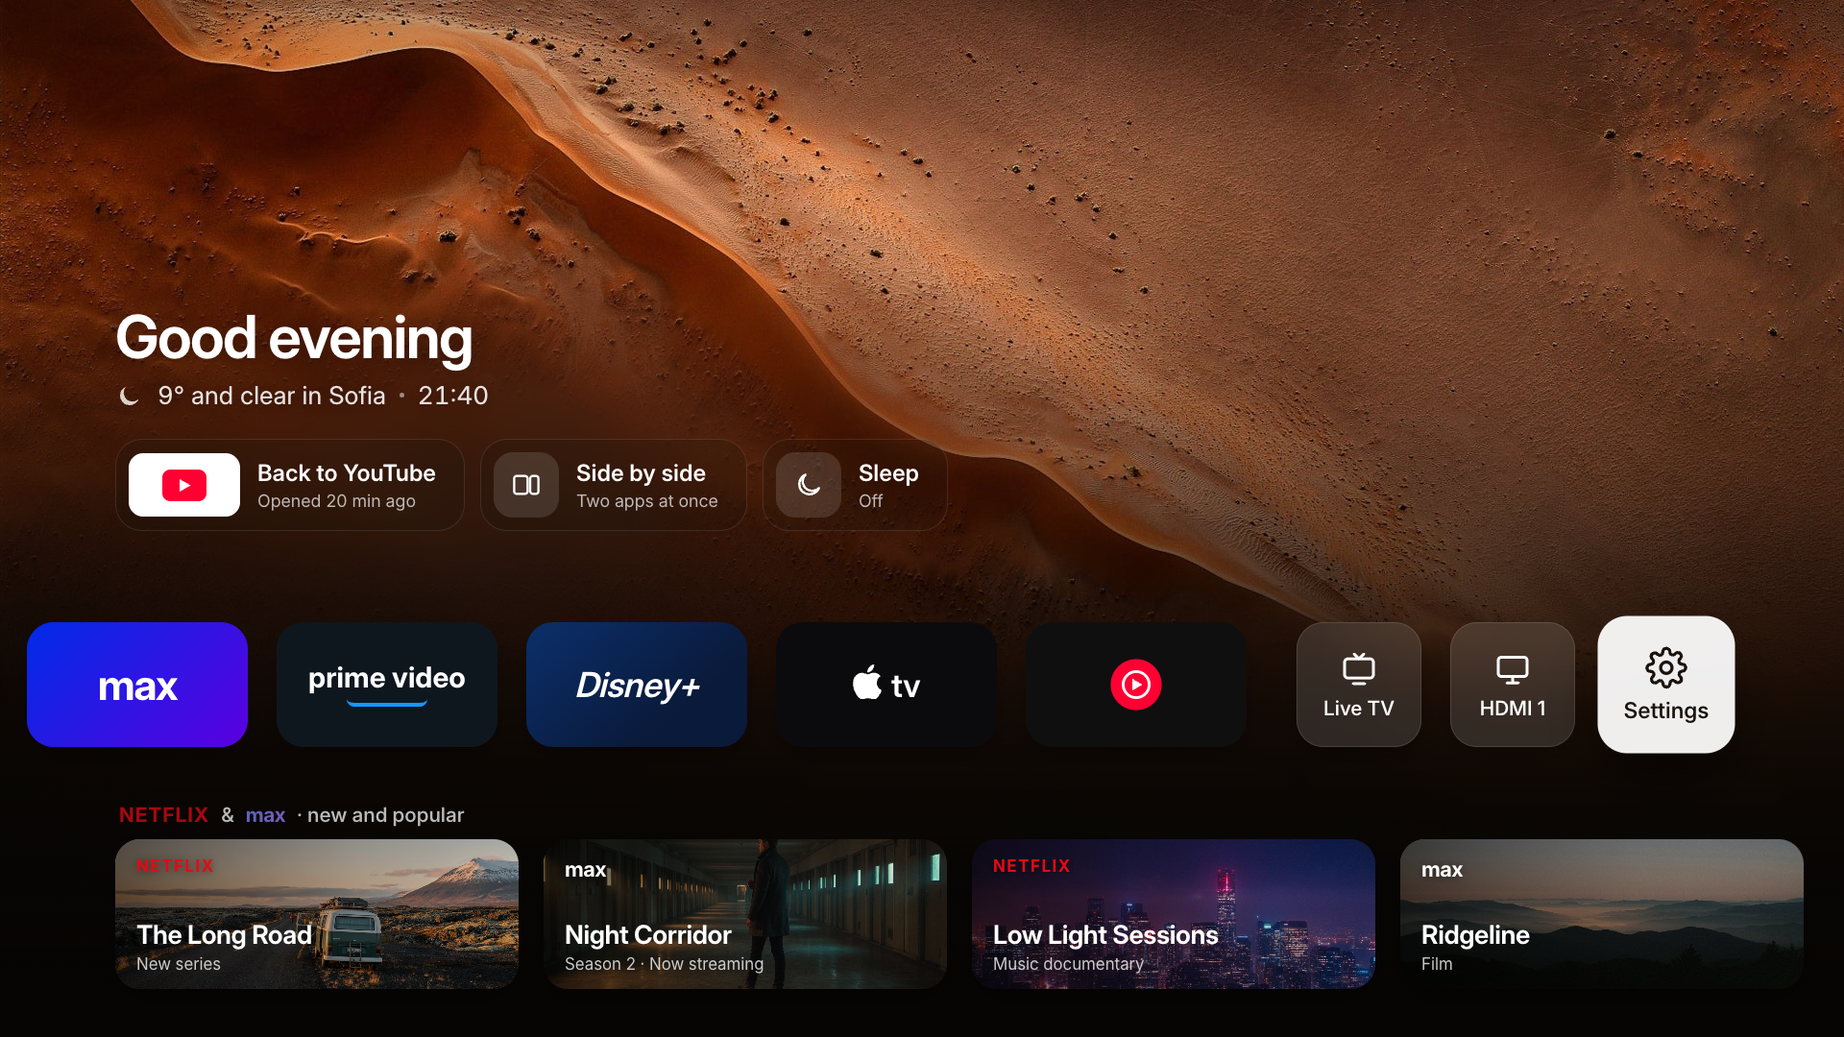
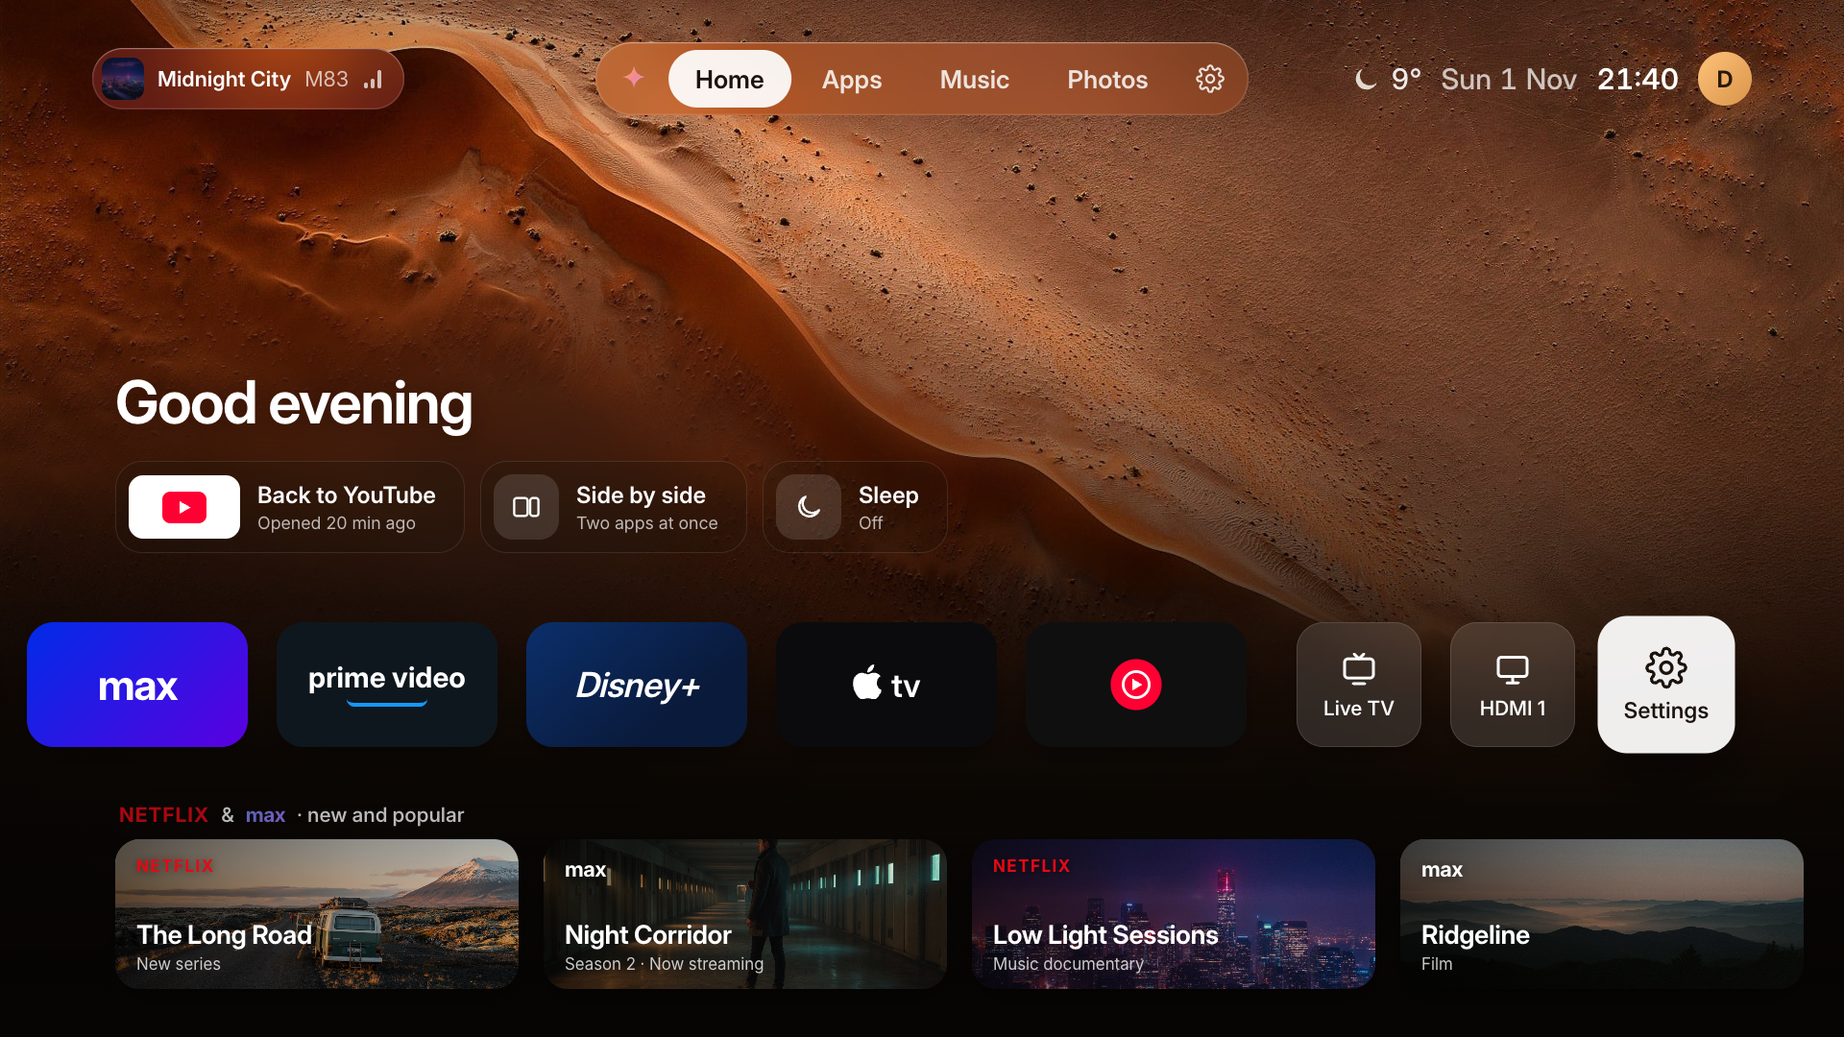
v5: bring back the v4 top bar; taller, clearer glass clock

diff --git a/docs/design/mockup-v5.html b/docs/design/mockup-v5.html
@@ -22,8 +22,31 @@ svg.s{fill:none;stroke:currentColor;stroke-width:1.8;stroke-linecap:round;stroke
 .frost{position:absolute;left:-60px;top:250px;width:1400px;height:420px;pointer-events:none;backdrop-filter:blur(26px) saturate(112%) brightness(.85);-webkit-backdrop-filter:blur(26px) saturate(112%) brightness(.85);mask-image:radial-gradient(52% 60% at 36% 58%,#000 30%,transparent 100%);-webkit-mask-image:radial-gradient(52% 60% at 36% 58%,#000 30%,transparent 100%)}
 .band{position:absolute;left:0;top:600px;width:1920px;height:480px;pointer-events:none;backdrop-filter:blur(40px) saturate(130%);-webkit-backdrop-filter:blur(40px) saturate(130%);background:linear-gradient(180deg,rgba(14,10,6,0) 0,rgba(14,10,6,.3) 150px,rgba(14,10,6,.5) 100%);mask-image:linear-gradient(180deg,transparent 0,#000 130px);-webkit-mask-image:linear-gradient(180deg,transparent 0,#000 130px)}
 
+/* top bar (from v4) */
+.glass{background:rgba(255,238,224,.09);backdrop-filter:blur(36px) saturate(170%);-webkit-backdrop-filter:blur(36px) saturate(170%);box-shadow:inset 0 1px 0 rgba(255,255,255,.3),inset 0 0 0 1.5px rgba(255,255,255,.12)}
+.top{position:absolute;left:96px;right:96px;top:44px;height:76px;display:flex;align-items:center;justify-content:space-between;z-index:6}
+.npill{height:64px;border-radius:32px;padding:0 24px 0 10px;display:flex;align-items:center;gap:14px;font-size:22px}
+.npill img{width:44px;height:44px;border-radius:12px;object-fit:cover}
+.npill b{font-weight:600}.npill span{opacity:.7}
+.npill.focused{transform:scale(1.05);background:rgba(255,255,255,.22)}
+.eq{display:flex;gap:3px;align-items:flex-end;height:20px;margin-left:2px}
+.eq i{width:4px;height:8px;background:#fff;border-radius:2px;animation:eq 1s ease-in-out infinite}
+.eq i:nth-child(2){animation-delay:.25s}.eq i:nth-child(3){animation-delay:.5s}
+@keyframes eq{0%,100%{height:6px}50%{height:20px}}
+.tabs{position:absolute;left:50%;top:0;transform:translateX(-50%);height:76px;border-radius:38px;padding:8px;display:flex;gap:4px}
+.tb{height:60px;border-radius:30px;padding:0 28px;display:flex;align-items:center;gap:10px;font-size:26px;font-weight:600;opacity:.84}
+.tb.icon{padding:0 17px}.tb svg{width:30px;height:30px}
+.tb.sel{background:rgba(255,255,255,.92);color:#1b130c;opacity:1}
+.tb.focused{background:rgba(255,255,255,.26);opacity:1;transform:scale(1.06)}
+.tb.sel.focused{background:#fff}
+.status{display:flex;align-items:center;gap:20px;font-size:30px;font-weight:600;font-variant-numeric:tabular-nums}
+.status .wx{display:flex;align-items:center;gap:8px;font-weight:500;opacity:.9}
+.status .date{font-weight:500;opacity:.72}
+.status svg{width:34px;height:34px}
+.avatar{width:56px;height:56px;border-radius:50%;display:grid;place-items:center;font-size:24px;font-weight:650;color:#2a1806;background:linear-gradient(135deg,#ffc27a,#d9944a)}
+
 /* hero */
-.hero{position:absolute;left:120px;top:320px}
+.hero{position:absolute;left:120px;top:388px}
 .hello{font-size:62px;font-weight:650;letter-spacing:-1.6px;line-height:1;margin:0 0 14px;text-shadow:0 2px 24px rgba(0,0,0,.3)}
 .hline{display:flex;align-items:center;gap:14px;font-size:26px;font-weight:450;margin:0;opacity:.88;text-shadow:0 2px 14px rgba(0,0,0,.35);font-variant-numeric:tabular-nums}
 .hline svg{width:30px;height:30px}
@@ -82,7 +105,7 @@ svg.s{fill:none;stroke:currentColor;stroke-width:1.8;stroke-linecap:round;stroke
 .saver .wall2{position:absolute;inset:0;background:url(assets/wall-dune.jpg) center/cover no-repeat}
 .saver .vig{position:absolute;inset:0;background:radial-gradient(70% 60% at 50% 48%,rgba(0,0,0,0),rgba(0,0,0,.28))}
 .saver svg{position:absolute;inset:0}
-.sdate{position:absolute;left:0;right:0;top:688px;text-align:center;font-size:30px;font-weight:500;letter-spacing:.2px;opacity:.92;text-shadow:0 2px 18px rgba(0,0,0,.45);font-variant-numeric:tabular-nums}
+.sdate{position:absolute;left:0;right:0;top:784px;text-align:center;font-size:30px;font-weight:500;letter-spacing:.2px;opacity:.92;text-shadow:0 2px 18px rgba(0,0,0,.45);font-variant-numeric:tabular-nums}
 .on-saver .saver{opacity:1;pointer-events:auto}
 .home{transition:opacity .6s}
 .on-saver .home{opacity:0}
@@ -94,37 +117,48 @@ svg.s{fill:none;stroke:currentColor;stroke-width:1.8;stroke-linecap:round;stroke
     <div class="wall"></div>
     <div class="scrim"></div>
     <div class="frost"></div>
+    <header class="top">
+      <div class="npill glass f" data-row="0"><img src="assets/v3-album.jpg" alt=""><b>Midnight City</b><span>M83</span><span class="eq"><i></i><i></i><i></i></span></div>
+      <nav class="tabs glass">
+        <div class="tb icon f" data-row="0"><svg viewBox="0 0 24 24"><defs><linearGradient id="sg" x1="0" y1="0" x2="1" y2="1"><stop offset="0" stop-color="#ffb36b"/><stop offset=".5" stop-color="#ff8fa3"/><stop offset="1" stop-color="#c9a2ff"/></linearGradient></defs><path fill="url(#sg)" d="M12 1.5c.6 4.6 3.4 7.9 9 9-5.6 1.1-8.4 4.4-9 9-.6-4.6-3.4-7.9-9-9 5.6-1.1 8.4-4.4 9-9z"/></svg></div>
+        <div class="tb sel f" data-row="0">Home</div>
+        <div class="tb f" data-row="0">Apps</div>
+        <div class="tb f" data-row="0">Music</div>
+        <div class="tb f" data-row="0">Photos</div>
+        <div class="tb icon f" data-row="0"><svg class="s" viewBox="0 0 24 24"><circle cx="12" cy="12" r="3.2"/><path d="M19.4 15a1.6 1.6 0 0 0 .3 1.8l.1.1a2 2 0 1 1-2.8 2.8l-.1-.1a1.6 1.6 0 0 0-1.8-.3 1.6 1.6 0 0 0-1 1.5V21a2 2 0 1 1-4 0v-.1a1.6 1.6 0 0 0-1-1.5 1.6 1.6 0 0 0-1.8.3l-.1.1a2 2 0 1 1-2.8-2.8l.1-.1a1.6 1.6 0 0 0 .3-1.8 1.6 1.6 0 0 0-1.5-1H3a2 2 0 1 1 0-4h.1a1.6 1.6 0 0 0 1.5-1 1.6 1.6 0 0 0-.3-1.8l-.1-.1a2 2 0 1 1 2.8-2.8l.1.1a1.6 1.6 0 0 0 1.8.3H9a1.6 1.6 0 0 0 1-1.5V3a2 2 0 1 1 4 0v.1a1.6 1.6 0 0 0 1 1.5 1.6 1.6 0 0 0 1.8-.3l.1-.1a2 2 0 1 1 2.8 2.8l-.1.1a1.6 1.6 0 0 0-.3 1.8V9a1.6 1.6 0 0 0 1.5 1H21a2 2 0 1 1 0 4h-.1a1.6 1.6 0 0 0-1.5 1z"/></svg></div>
+      </nav>
+      <div class="status"><span class="wx"><svg viewBox="0 0 24 24"><path fill="#f1ebe2" d="M19.5 14.8A8 8 0 1 1 9.2 4.5a6.4 6.4 0 0 0 10.3 10.3z"/></svg>9°</span><span class="date" id="tdate">Sun 1 Nov</span><span id="tclock">21:40</span><span class="avatar">D</span></div>
+    </header>
     <div class="band"></div>
 
     <section class="hero">
       <h1 class="hello" id="hello">Good evening</h1>
-      <p class="hline"><svg viewBox="0 0 24 24"><path fill="#f1ebe2" d="M19.5 14.8A8 8 0 1 1 9.2 4.5a6.4 6.4 0 0 0 10.3 10.3z"/></svg>9° and clear in Sofia <i></i><span id="hclock">21:40</span></p>
       <div class="smart">
-        <div class="sc f" data-row="0"><span class="th"><svg viewBox="0 0 28 20"><rect width="28" height="20" rx="5" fill="#ff0033"/><path d="M11 6v8l7-4z" fill="#fff"/></svg></span><span><b>Back to YouTube</b><small>Opened 20 min ago</small></span></div>
-        <div class="sc f" data-row="0"><span class="ico"><svg class="s" viewBox="0 0 24 24"><rect x="2.5" y="5" width="10.5" height="14" rx="2.2"/><rect x="15" y="5" width="6.5" height="14" rx="2.2"/></svg></span><span><b>Side by side</b><small>Two apps at once</small></span></div>
-        <div class="sc f" data-row="0" id="sleep"><span class="ico"><svg class="s" viewBox="0 0 24 24"><path d="M20 14.5A8 8 0 1 1 9.5 4a6.5 6.5 0 0 0 10.5 10.5z"/></svg></span><span><b>Sleep</b><small id="sleepv">Off</small></span></div>
+        <div class="sc f" data-row="1"><span class="th"><svg viewBox="0 0 28 20"><rect width="28" height="20" rx="5" fill="#ff0033"/><path d="M11 6v8l7-4z" fill="#fff"/></svg></span><span><b>Back to YouTube</b><small>Opened 20 min ago</small></span></div>
+        <div class="sc f" data-row="1"><span class="ico"><svg class="s" viewBox="0 0 24 24"><rect x="2.5" y="5" width="10.5" height="14" rx="2.2"/><rect x="15" y="5" width="6.5" height="14" rx="2.2"/></svg></span><span><b>Side by side</b><small>Two apps at once</small></span></div>
+        <div class="sc f" data-row="1" id="sleep"><span class="ico"><svg class="s" viewBox="0 0 24 24"><path d="M20 14.5A8 8 0 1 1 9.5 4a6.5 6.5 0 0 0 10.5 10.5z"/></svg></span><span><b>Sleep</b><small id="sleepv">Off</small></span></div>
       </div>
     </section>
 
     <div class="row apps" id="apps">
-      <div class="tile t-yt f" data-row="1"><svg viewBox="0 0 28 20"><rect width="28" height="20" rx="5" fill="#ff0033"/><path d="M11 6v8l7-4z" fill="#fff"/></svg><span class="nm">YouTube</span></div>
-      <div class="tile t-nf f" data-row="1">NETFLIX<span class="nm">Netflix</span></div>
-      <div class="tile t-mx f" data-row="1">max<span class="nm">HBO Max</span></div>
-      <div class="tile t-pv f" data-row="1">prime video<small></small><span class="nm">Prime Video</span></div>
-      <div class="tile t-dp f" data-row="1">Disney+<span class="nm">Disney+</span></div>
-      <div class="tile t-atv f" data-row="1"><svg viewBox="0 0 17 20"><path fill="#fff" d="M14.1 10.6c0-2.6 2.1-3.8 2.2-3.9-1.2-1.8-3.1-2-3.7-2-1.6-.2-3.1.9-3.9.9-.8 0-2.1-.9-3.4-.9C3.5 4.8 1.9 5.8 1 7.3c-1.9 3.2-.5 8 1.3 10.6.9 1.3 1.9 2.7 3.3 2.6 1.3-.1 1.8-.8 3.4-.8s2 .8 3.4.8c1.4 0 2.3-1.3 3.2-2.6 1-1.5 1.4-2.9 1.4-3-.1 0-2.9-1.1-2.9-4.3zM11.5 3c.7-.9 1.2-2 1.1-3.2-1 0-2.3.7-3 1.6-.7.8-1.2 2-1.1 3.1 1.1.1 2.3-.6 3-1.5z"/></svg>tv<span class="nm">Apple TV</span></div>
-      <div class="tile t-ym f" data-row="1"><svg viewBox="0 0 24 24"><circle cx="12" cy="12" r="11" fill="#ff0033"/><circle cx="12" cy="12" r="5.6" fill="none" stroke="#fff" stroke-width="1.2"/><path d="M10.3 9.4v5.2l4.4-2.6z" fill="#fff"/></svg><span class="nm">YouTube Music</span></div>
-      <div class="tile t-sys sq gap f" data-row="1"><svg class="s" viewBox="0 0 24 24"><rect x="3" y="5.5" width="18" height="12" rx="2.2"/><path d="M8.5 21h7M9 2.5l3 3 3-3"/></svg>Live TV</div>
-      <div class="tile t-sys sq f" data-row="1"><svg class="s" viewBox="0 0 24 24"><rect x="3" y="4.5" width="18" height="12" rx="2"/><path d="M8.5 20.5h7M12 16.5v4"/></svg>HDMI 1</div>
-      <div class="tile t-sys sq f" data-row="1"><svg class="s" viewBox="0 0 24 24"><circle cx="12" cy="12" r="3.2"/><path d="M19.4 15a1.6 1.6 0 0 0 .3 1.8l.1.1a2 2 0 1 1-2.8 2.8l-.1-.1a1.6 1.6 0 0 0-1.8-.3 1.6 1.6 0 0 0-1 1.5V21a2 2 0 1 1-4 0v-.1a1.6 1.6 0 0 0-1-1.5 1.6 1.6 0 0 0-1.8.3l-.1.1a2 2 0 1 1-2.8-2.8l.1-.1a1.6 1.6 0 0 0 .3-1.8 1.6 1.6 0 0 0-1.5-1H3a2 2 0 1 1 0-4h.1a1.6 1.6 0 0 0 1.5-1 1.6 1.6 0 0 0-.3-1.8l-.1-.1a2 2 0 1 1 2.8-2.8l.1.1a1.6 1.6 0 0 0 1.8.3H9a1.6 1.6 0 0 0 1-1.5V3a2 2 0 1 1 4 0v.1a1.6 1.6 0 0 0 1 1.5 1.6 1.6 0 0 0 1.8-.3l.1-.1a2 2 0 1 1 2.8 2.8l-.1.1a1.6 1.6 0 0 0-.3 1.8V9a1.6 1.6 0 0 0 1.5 1H21a2 2 0 1 1 0 4h-.1a1.6 1.6 0 0 0-1.5 1z"/></svg>Settings</div>
+      <div class="tile t-yt f" data-row="2"><svg viewBox="0 0 28 20"><rect width="28" height="20" rx="5" fill="#ff0033"/><path d="M11 6v8l7-4z" fill="#fff"/></svg><span class="nm">YouTube</span></div>
+      <div class="tile t-nf f" data-row="2">NETFLIX<span class="nm">Netflix</span></div>
+      <div class="tile t-mx f" data-row="2">max<span class="nm">HBO Max</span></div>
+      <div class="tile t-pv f" data-row="2">prime video<small></small><span class="nm">Prime Video</span></div>
+      <div class="tile t-dp f" data-row="2">Disney+<span class="nm">Disney+</span></div>
+      <div class="tile t-atv f" data-row="2"><svg viewBox="0 0 17 20"><path fill="#fff" d="M14.1 10.6c0-2.6 2.1-3.8 2.2-3.9-1.2-1.8-3.1-2-3.7-2-1.6-.2-3.1.9-3.9.9-.8 0-2.1-.9-3.4-.9C3.5 4.8 1.9 5.8 1 7.3c-1.9 3.2-.5 8 1.3 10.6.9 1.3 1.9 2.7 3.3 2.6 1.3-.1 1.8-.8 3.4-.8s2 .8 3.4.8c1.4 0 2.3-1.3 3.2-2.6 1-1.5 1.4-2.9 1.4-3-.1 0-2.9-1.1-2.9-4.3zM11.5 3c.7-.9 1.2-2 1.1-3.2-1 0-2.3.7-3 1.6-.7.8-1.2 2-1.1 3.1 1.1.1 2.3-.6 3-1.5z"/></svg>tv<span class="nm">Apple TV</span></div>
+      <div class="tile t-ym f" data-row="2"><svg viewBox="0 0 24 24"><circle cx="12" cy="12" r="11" fill="#ff0033"/><circle cx="12" cy="12" r="5.6" fill="none" stroke="#fff" stroke-width="1.2"/><path d="M10.3 9.4v5.2l4.4-2.6z" fill="#fff"/></svg><span class="nm">YouTube Music</span></div>
+      <div class="tile t-sys sq gap f" data-row="2"><svg class="s" viewBox="0 0 24 24"><rect x="3" y="5.5" width="18" height="12" rx="2.2"/><path d="M8.5 21h7M9 2.5l3 3 3-3"/></svg>Live TV</div>
+      <div class="tile t-sys sq f" data-row="2"><svg class="s" viewBox="0 0 24 24"><rect x="3" y="4.5" width="18" height="12" rx="2"/><path d="M8.5 20.5h7M12 16.5v4"/></svg>HDMI 1</div>
+      <div class="tile t-sys sq f" data-row="2"><svg class="s" viewBox="0 0 24 24"><circle cx="12" cy="12" r="3.2"/><path d="M19.4 15a1.6 1.6 0 0 0 .3 1.8l.1.1a2 2 0 1 1-2.8 2.8l-.1-.1a1.6 1.6 0 0 0-1.8-.3 1.6 1.6 0 0 0-1 1.5V21a2 2 0 1 1-4 0v-.1a1.6 1.6 0 0 0-1-1.5 1.6 1.6 0 0 0-1.8.3l-.1.1a2 2 0 1 1-2.8-2.8l.1-.1a1.6 1.6 0 0 0 .3-1.8 1.6 1.6 0 0 0-1.5-1H3a2 2 0 1 1 0-4h.1a1.6 1.6 0 0 0 1.5-1 1.6 1.6 0 0 0-.3-1.8l-.1-.1a2 2 0 1 1 2.8-2.8l.1.1a1.6 1.6 0 0 0 1.8.3H9a1.6 1.6 0 0 0 1-1.5V3a2 2 0 1 1 4 0v.1a1.6 1.6 0 0 0 1 1.5 1.6 1.6 0 0 0 1.8-.3l.1-.1a2 2 0 1 1 2.8 2.8l-.1.1a1.6 1.6 0 0 0-.3 1.8V9a1.6 1.6 0 0 0 1.5 1H21a2 2 0 1 1 0 4h-.1a1.6 1.6 0 0 0-1.5 1z"/></svg>Settings</div>
     </div>
 
     <div class="slabel"><em>NETFLIX</em>&amp;<u>max</u><span>· new and popular</span></div>
     <div class="row strip" id="strip">
-      <div class="pc f" data-row="2" style="background-image:url(assets/v3-roadtrip.jpg)"><span class="brand n">NETFLIX</span><span class="tt">The Long Road</span><span class="mt">New series</span></div>
-      <div class="pc f" data-row="2" style="background-image:url(assets/v3-corridor.jpg)"><span class="brand m">max</span><span class="tt">Night Corridor</span><span class="mt">Season 2 · Now streaming</span></div>
-      <div class="pc f" data-row="2" style="background-image:url(assets/v3-album.jpg)"><span class="brand n">NETFLIX</span><span class="tt">Low Light Sessions</span><span class="mt">Music documentary</span></div>
-      <div class="pc f" data-row="2" style="background-image:url(assets/gen-ridges-1.png)"><span class="brand m">max</span><span class="tt">Ridgeline</span><span class="mt">Film</span></div>
+      <div class="pc f" data-row="3" style="background-image:url(assets/v3-roadtrip.jpg)"><span class="brand n">NETFLIX</span><span class="tt">The Long Road</span><span class="mt">New series</span></div>
+      <div class="pc f" data-row="3" style="background-image:url(assets/v3-corridor.jpg)"><span class="brand m">max</span><span class="tt">Night Corridor</span><span class="mt">Season 2 · Now streaming</span></div>
+      <div class="pc f" data-row="3" style="background-image:url(assets/v3-album.jpg)"><span class="brand n">NETFLIX</span><span class="tt">Low Light Sessions</span><span class="mt">Music documentary</span></div>
+      <div class="pc f" data-row="3" style="background-image:url(assets/gen-ridges-1.png)"><span class="brand m">max</span><span class="tt">Ridgeline</span><span class="mt">Film</span></div>
     </div>
   </div>
 
@@ -133,17 +167,31 @@ svg.s{fill:none;stroke:currentColor;stroke-width:1.8;stroke-linecap:round;stroke
     <div class="vig"></div>
     <svg viewBox="0 0 1920 1080" width="1920" height="1080" aria-hidden="true">
       <defs>
-        <clipPath id="digits"><text id="t1" x="960" y="600" text-anchor="middle" font-family="Inter, -apple-system, sans-serif" font-size="330" font-weight="600" letter-spacing="-10">21:40</text></clipPath>
-        <filter id="wblur" x="0" y="0" width="100%" height="100%"><feGaussianBlur stdDeviation="16"/><feComponentTransfer><feFuncR type="linear" slope="1.25" intercept=".06"/><feFuncG type="linear" slope="1.25" intercept=".06"/><feFuncB type="linear" slope="1.25" intercept=".06"/></feComponentTransfer></filter>
-        <filter id="shadow" x="-20%" y="-30%" width="140%" height="170%"><feGaussianBlur in="SourceAlpha" stdDeviation="22"/><feOffset dy="20"/><feComponentTransfer><feFuncA type="linear" slope=".38"/></feComponentTransfer></filter>
-        <filter id="bevel" x="-5%" y="-10%" width="110%" height="120%"><feGaussianBlur in="SourceAlpha" stdDeviation="3.2" result="b"/><feSpecularLighting in="b" surfaceScale="5" specularConstant=".95" specularExponent="24" lighting-color="#fff" result="sp"><feDistantLight azimuth="240" elevation="52"/></feSpecularLighting><feComposite in="sp" in2="SourceAlpha" operator="in"/></filter>
+        <text id="t1" x="960" y="665" text-anchor="middle" font-family="Inter, -apple-system, sans-serif" font-size="400" font-weight="600" letter-spacing="-14" transform="translate(0 520) scale(1 1.55) translate(0 -520)">21:40</text>
+        <filter id="shadow" x="-20%" y="-30%" width="140%" height="170%"><feGaussianBlur in="SourceAlpha" stdDeviation="26"/><feOffset dy="26"/><feComponentTransfer><feFuncA type="linear" slope=".42"/></feComponentTransfer></filter>
+        <filter id="glass" filterUnits="userSpaceOnUse" primitiveUnits="userSpaceOnUse" x="0" y="0" width="1920" height="1080" color-interpolation-filters="sRGB">
+          <feImage href="assets/wall-dune.jpg" x="0" y="0" width="1920" height="1080" preserveAspectRatio="xMidYMid slice" result="wall"/>
+          <feGaussianBlur in="SourceAlpha" stdDeviation="16" result="ramp"/>
+          <feColorMatrix in="ramp" type="matrix" values="0 0 0 1 0  0 0 0 1 0  0 0 0 1 0  0 0 0 0 1" result="map"/>
+          <feGaussianBlur in="wall" stdDeviation="2" result="wallb"/>
+          <feDisplacementMap in="wallb" in2="map" scale="-90" xChannelSelector="R" yChannelSelector="G" result="refr"/>
+          <feComponentTransfer in="refr" result="lit"><feFuncR type="linear" slope="1.1" intercept=".035"/><feFuncG type="linear" slope="1.1" intercept=".035"/><feFuncB type="linear" slope="1.1" intercept=".035"/></feComponentTransfer>
+          <feComposite in="lit" in2="SourceAlpha" operator="in" result="body"/>
+          <feFlood flood-color="#fff" flood-opacity=".07"/><feComposite in2="SourceAlpha" operator="in" result="tint"/>
+          <feOffset in="SourceAlpha" dx="-7" dy="-10" result="o1"/><feGaussianBlur in="o1" stdDeviation="6" result="o1b"/>
+          <feComposite in="SourceAlpha" in2="o1b" operator="out" result="lowEdge"/>
+          <feFlood flood-color="#1a0c04" flood-opacity=".32"/><feComposite in2="lowEdge" operator="in" result="darkRim"/>
+          <feOffset in="SourceAlpha" dx="5" dy="7" result="o2"/><feGaussianBlur in="o2" stdDeviation="2.5" result="o2b"/>
+          <feComposite in="SourceAlpha" in2="o2b" operator="out" result="highEdge"/>
+          <feFlood flood-color="#fff" flood-opacity=".95"/><feComposite in2="highEdge" operator="in" result="lightRim"/>
+          <feGaussianBlur in="SourceAlpha" stdDeviation="5" result="sb"/>
+          <feSpecularLighting in="sb" surfaceScale="11" specularConstant="1.2" specularExponent="60" lighting-color="#fff" result="spec"><feDistantLight azimuth="225" elevation="50"/></feSpecularLighting>
+          <feComposite in="spec" in2="SourceAlpha" operator="in" result="specIn"/>
+          <feMerge><feMergeNode in="body"/><feMergeNode in="tint"/><feMergeNode in="darkRim"/><feMergeNode in="lightRim"/><feMergeNode in="specIn"/></feMerge>
+        </filter>
       </defs>
       <use href="#t1" filter="url(#shadow)" fill="#000"/>
-      <g clip-path="url(#digits)">
-        <image href="assets/wall-dune.jpg" x="0" y="0" width="1920" height="1080" preserveAspectRatio="xMidYMid slice" filter="url(#wblur)"/>
-        <rect width="1920" height="1080" fill="#fff" opacity=".3"/>
-      </g>
-      <use href="#t1" fill="#fff" filter="url(#bevel)" opacity="1"/>
+      <use href="#t1" fill="#fff" filter="url(#glass)"/>
     </svg>
     <div class="sdate" id="sdate">Sunday, 1 November · 9° clear</div>
   </div>
@@ -155,14 +203,14 @@ function fit(){ const s = Math.min(innerWidth/1920, innerHeight/1080); screen.st
   screen.style.left = (innerWidth-1920*s)/2+'px'; screen.style.top = (innerHeight-1080*s)/2+'px'; }
 addEventListener('resize', fit); fit();
 
-const rows = [0,1,2].map(r => [...document.querySelectorAll(`.f[data-row="${r}"]`)]);
-const rowEl = [null, document.getElementById('apps'), document.getElementById('strip')];
+const rows = [0,1,2,3].map(r => [...document.querySelectorAll(`.f[data-row="${r}"]`)]);
+const rowEl = [null, null, document.getElementById('apps'), document.getElementById('strip')];
 let fr = 1, fc = 0;
 function focus(r, c){
   fr = r; fc = Math.max(0, Math.min(c, rows[r].length-1));
   document.querySelectorAll('.focused').forEach(e => e.classList.remove('focused'));
   const el = rows[fr][fc]; el.classList.add('focused');
-  [1,2].forEach(i => { if (!rowEl[i]) return;
+  [2,3].forEach(i => { if (!rowEl[i]) return;
     if (i !== fr) { rowEl[i].style.transform = ''; return; }
     const right = el.offsetLeft + el.offsetWidth + 120;
     rowEl[i].style.transform = `translateX(${-Math.max(0, right - 1800)}px)`; });
@@ -175,8 +223,8 @@ addEventListener('keydown', e => {
   if (screen.classList.contains('on-saver')) { screen.classList.remove('on-saver'); return; }
   if (k === 'ArrowRight') focus(fr, fc+1);
   else if (k === 'ArrowLeft') focus(fr, fc-1);
-  else if (k === 'ArrowUp' && fr > 0) focus(fr-1, fr-1 === 0 ? Math.min(fc, 2) : fc);
-  else if (k === 'ArrowDown' && fr < 2) focus(fr+1, fc);
+  else if (k === 'ArrowUp' && fr > 0) focus(fr-1, fr-1 === 1 ? Math.min(fc, 2) : fr-1 === 0 ? 2 : fc);
+  else if (k === 'ArrowDown' && fr < 3) focus(fr+1, fr === 0 ? 0 : fc);
   else if (k === 'Enter' && rows[fr][fc].id === 'sleep') { sleepIx = (sleepIx+1) % 4; document.getElementById('sleepv').textContent = sleepSteps[sleepIx]; }
   else return;
   e.preventDefault();
@@ -189,7 +237,8 @@ function tick(){
   const hm = pin || now.toLocaleTimeString('en-GB', {hour:'2-digit', minute:'2-digit'});
   const h = +hm.split(':')[0];
   document.getElementById('hello').textContent = h >= 5 && h < 12 ? 'Good morning' : h >= 12 && h < 18 ? 'Good afternoon' : 'Good evening';
-  document.getElementById('hclock').textContent = hm;
+  document.getElementById('tclock').textContent = hm;
+  document.getElementById('tdate').textContent = now.toLocaleDateString('en-GB', {weekday:'short', day:'numeric', month:'short'}).replace(',', '');
   document.getElementById('t1').textContent = hm;
   document.getElementById('sdate').textContent = now.toLocaleDateString('en-GB', {weekday:'long', day:'numeric', month:'long'}) + ' · 9° clear';
 }
@@ -197,7 +246,7 @@ tick(); setInterval(tick, 15000);
 
 const view = location.hash.slice(1);
 if (view === 'saver') screen.classList.add('on-saver');
-focus(view === 'end' ? 1 : (view === 'strip' ? 2 : 1), view === 'end' ? 99 : 0);
+focus(view === 'end' ? 2 : (view === 'strip' ? 3 : 2), view === 'end' ? 99 : 0);
 </script>
 </body>
 </html>
